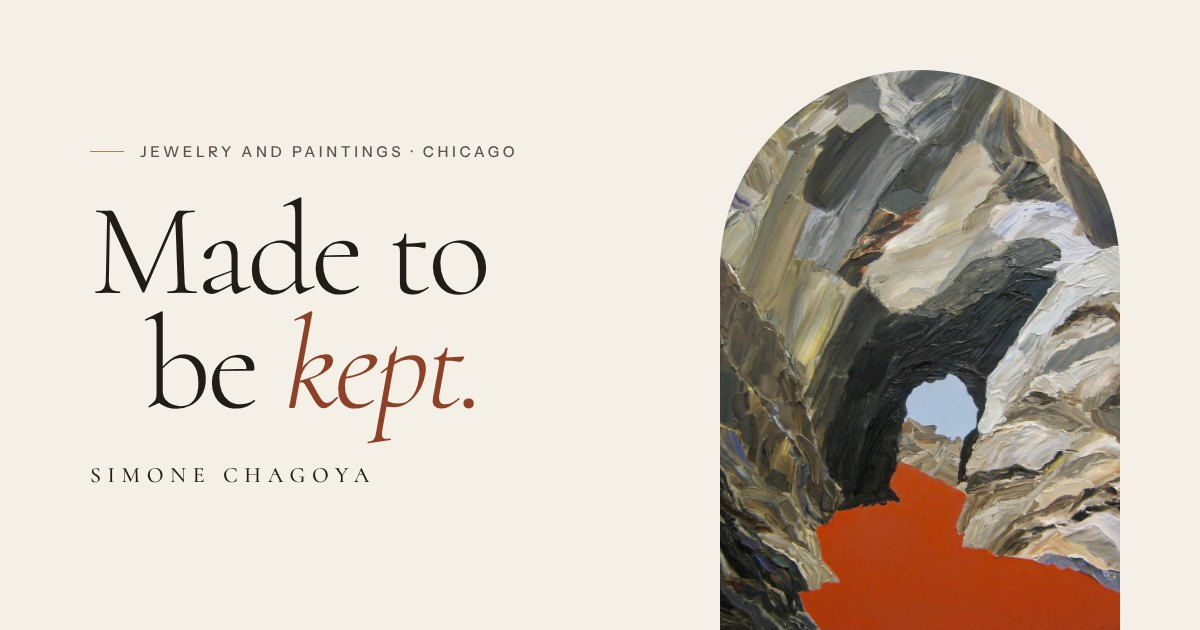
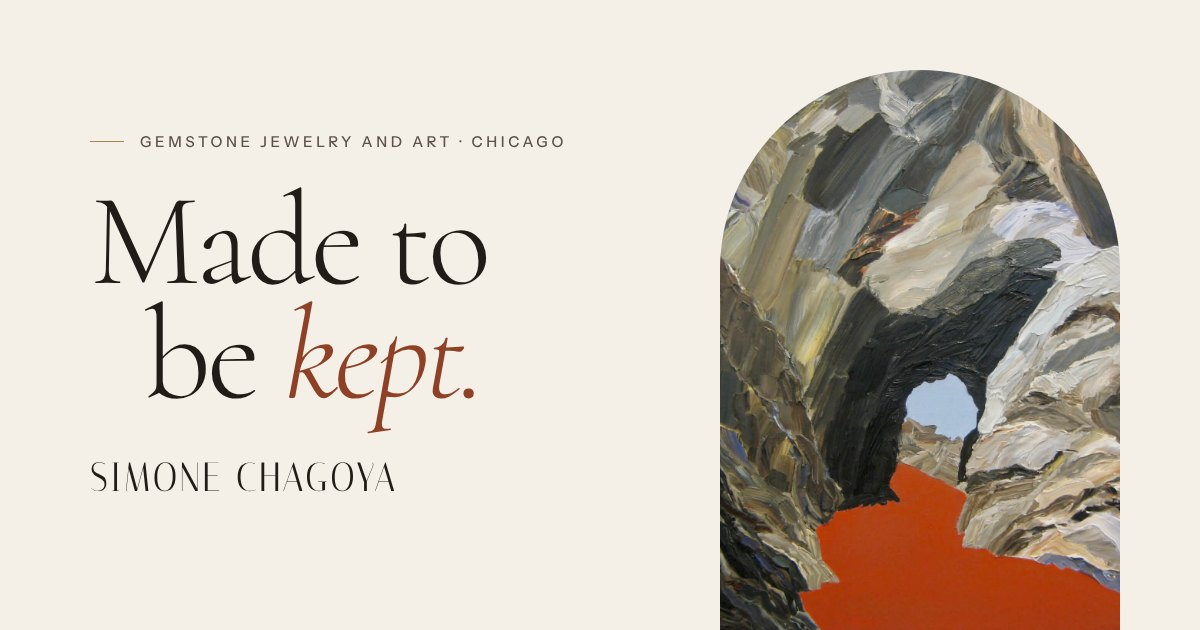
Bring the brand lockup closer to the studio's original mark
Adopt Italiana as the logo face: tall, high-contrast deco capitals in the
spirit of the Etsy banner wordmark, drawn slightly taller to echo its
condensed letterforms. Used for the header, mobile menu, footer mark,
hero seal and social image so the wordmark is consistent everywhere.

The home brand band now mirrors the original lockup: a frosted panel
over the water photograph with the wordmark and a right-aligned STUDIO
line.

Claude-Session: https://claude.ai/code/session_016gvNt1CKUVjBpwsVdVswi5

diff --git a/src/styles/global.css b/src/styles/global.css
@@ -1,6 +1,7 @@
 @import '@fontsource-variable/cormorant/wght.css';
 @import '@fontsource-variable/cormorant/wght-italic.css';
 @import '@fontsource-variable/instrument-sans/wght.css';
+@import '@fontsource/italiana/400.css';
 
 /* ---------------------------------------------------------------
    Tokens
@@ -24,6 +25,8 @@
 
   --serif: 'Cormorant Variable', 'Cormorant Garamond', 'Iowan Old Style', Georgia, serif;
   --sans: 'Instrument Sans Variable', ui-sans-serif, system-ui, -apple-system, 'Segoe UI', sans-serif;
+  /* Logo face: tall, high-contrast deco capitals in the spirit of the studio's original mark */
+  --logo: 'Italiana', 'Didot', 'Bodoni 72', serif;
 
   /* Fluid type scale */
   --step--2: clamp(0.68rem, 0.66rem + 0.08vw, 0.74rem);
@@ -600,6 +603,18 @@ h3 em,
 hr.rule {
   border: 0;
   border-top: 1px solid var(--line);
+}
+
+/* The studio wordmark. Italiana is drawn a little taller to echo the original condensed mark. */
+.logo {
+  display: inline-block;
+  font-family: var(--logo);
+  font-weight: 400;
+  text-transform: uppercase;
+  letter-spacing: 0.08em;
+  line-height: 1;
+  transform: scaleY(1.2);
+  white-space: nowrap;
 }
 
 .eyebrow--center::after {
